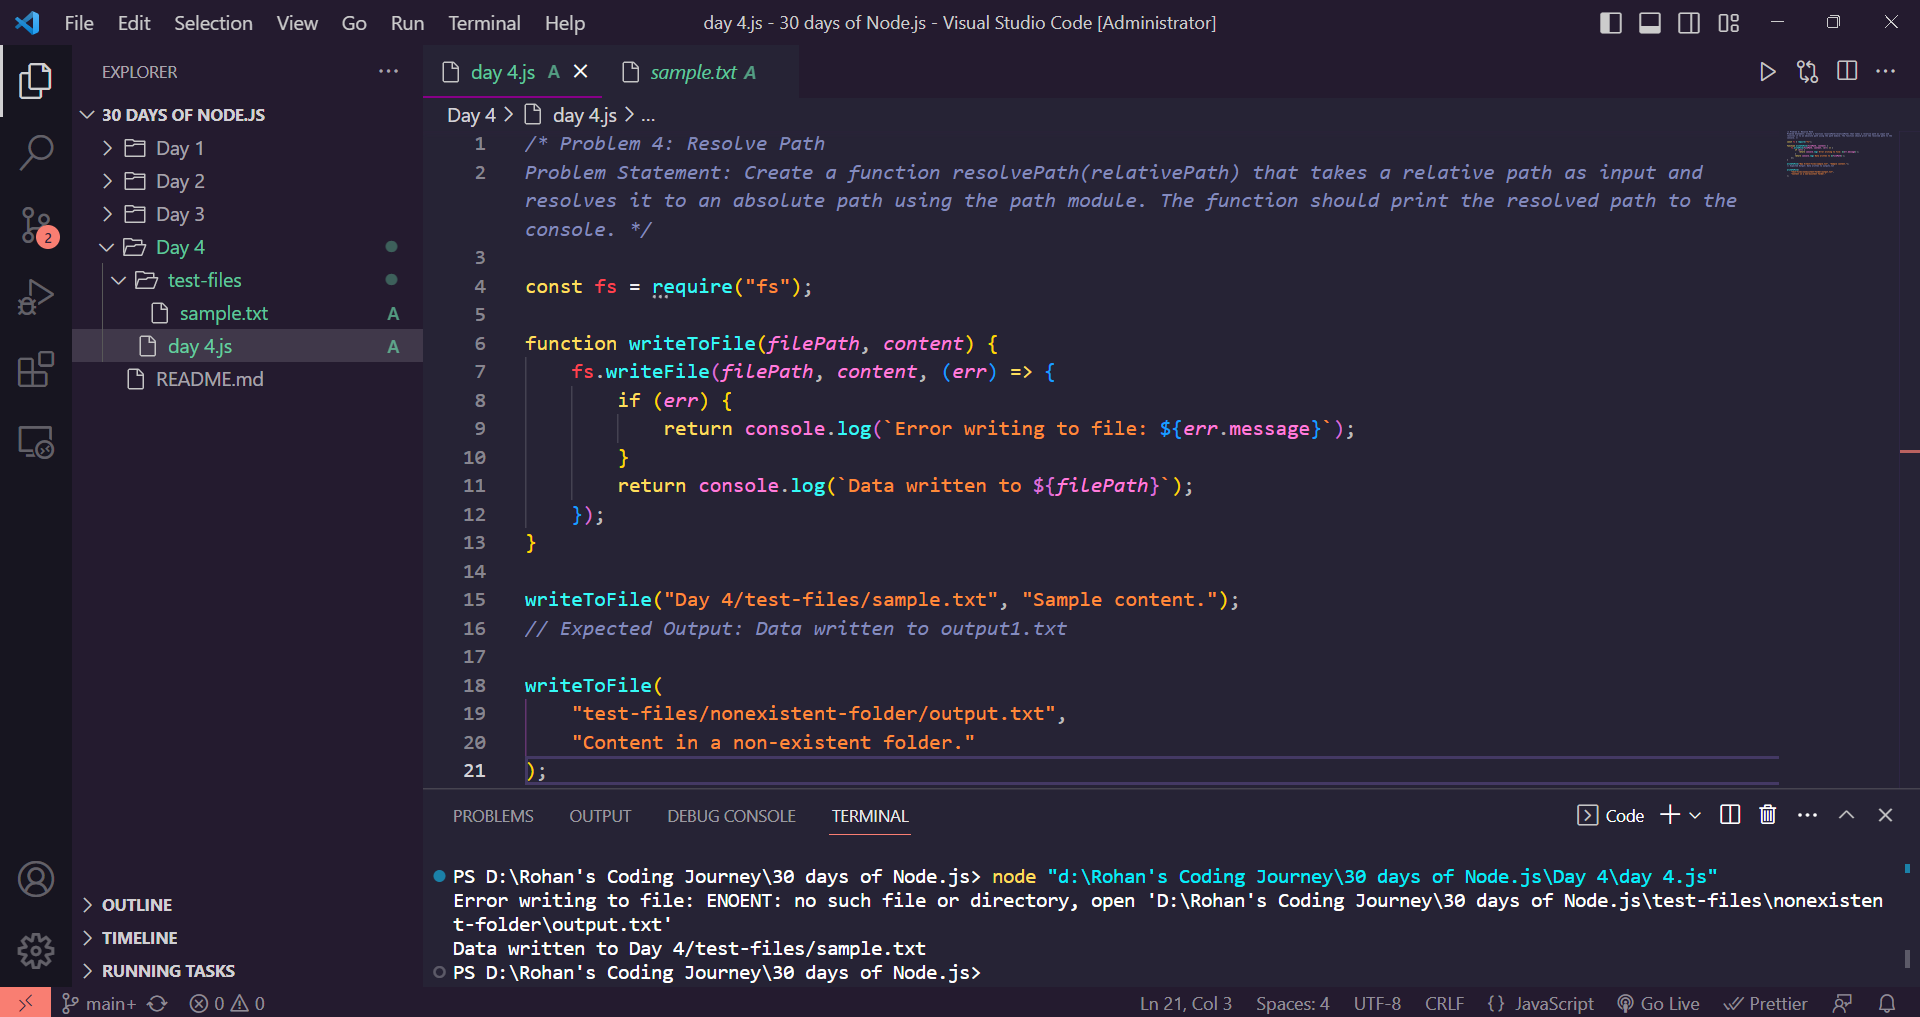
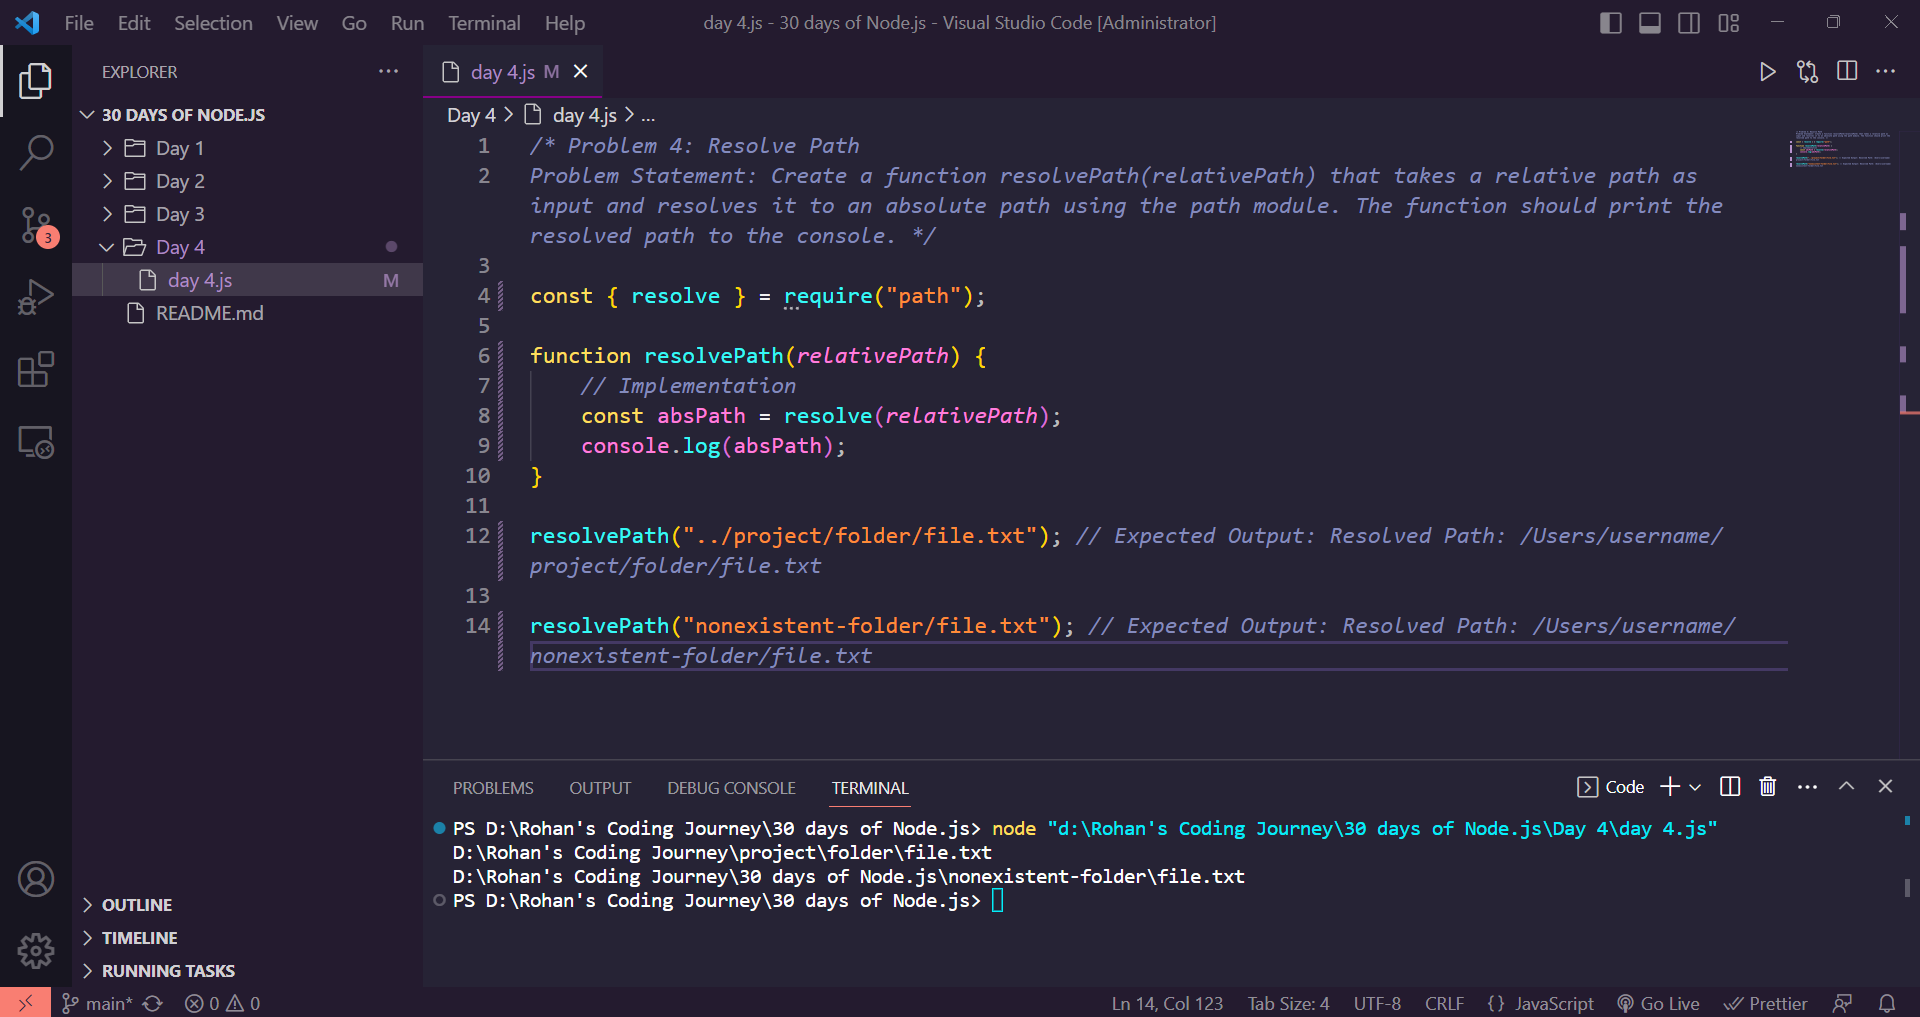
Day 4 completed

diff --git a/Day 4/day 4.js b/Day 4/day 4.js
@@ -1,21 +1,14 @@
 /* Problem 4: Resolve Path
 Problem Statement: Create a function resolvePath(relativePath) that takes a relative path as input and resolves it to an absolute path using the path module. The function should print the resolved path to the console. */
 
-const fs = require("fs");
+const { resolve } = require("path");
 
-function writeToFile(filePath, content) {
-	fs.writeFile(filePath, content, (err) => {
-		if (err) {
-			return console.log(`Error writing to file: ${err.message}`);
-		}
-		return console.log(`Data written to ${filePath}`);
-	});
+function resolvePath(relativePath) {
+	// Implementation
+	const absPath = resolve(relativePath);
+	console.log(absPath);
 }
 
-writeToFile("Day 4/test-files/sample.txt", "Sample content.");
-// Expected Output: Data written to output1.txt
+resolvePath("../project/folder/file.txt"); // Expected Output: Resolved Path: /Users/username/project/folder/file.txt
 
-writeToFile(
-	"test-files/nonexistent-folder/output.txt",
-	"Content in a non-existent folder."
-);
+resolvePath("nonexistent-folder/file.txt"); // Expected Output: Resolved Path: /Users/username/nonexistent-folder/file.txt
